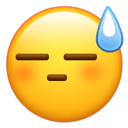
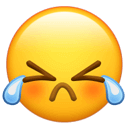
bbs: 新旧表情槽位一一对应（同一编号同一语义）
- 旧版 30 槽语义为准重排 face-wx：呲牙/裂开(受伤)/尴尬/晕/无语/社会社会(墨镜)/
  抠鼻/发呆/色/惊讶/吐/害羞/睡/惊恐/大哭/白眼/让我看看/疑问/翻白眼/咒骂/
  猪头/发怒/强/胜利/炸弹
- 21(黑脸)/24(公鸡)/25-26(企鹅)/27(灯泡) 微信无对应，旧 gif 转 PNG 原样保留
- 修复 [face]30[/face] 被 Math.min(29) 截断成 29 的 bug（ubb 渲染与编辑器同修）

Changed region(s): [[0.0, 0.4062, 1.0, 0.8438], [0.7188, 0.0312, 0.9688, 0.4375]]

diff --git a/src/lib/bbs.ts b/src/lib/bbs.ts
@@ -109,9 +109,10 @@ export function ubb(raw: string): string {
   );
   // 引用
   text = text.replace(/\[quote\]/gi, "<blockquote>").replace(/\[\/quote\]/gi, "</blockquote>");
-  // 表情：[face]N[/face]（N=0-29，白名单数字，经典 QQ 系）与 [face]Nn[/face]（新版=微信原版）
+  // 表情：[face]N[/face]（N=1-30，白名单数字，旧版 QQ 系）与 [face]Nn[/face]（新版=微信原版）
+  // 两套槽位一一对应（2026-09-26 整合：同一编号同一语义，21/24/25/26/27 无微信对应沿用旧图）
   text = text.replace(/\[face\](\d{1,2})(n?)\[\/face\]/gi, (_, n, suffix) => {
-    const id = Math.min(29, parseInt(n, 10));
+    const id = Math.min(30, Math.max(1, parseInt(n, 10)));
     const dir = suffix ? "face-wx" : "face";
     const ext = suffix ? ".png" : ".gif";
     return `<img src="/images/${dir}/${id}${ext}" alt="">`;

diff --git a/src/components/RichEditor.tsx b/src/components/RichEditor.tsx
@@ -45,7 +45,7 @@ export function ubbToEditorHtml(raw: string): string {
   t = t.replace(/\[img\]([^\[\]]+?)\[\/img\]/gi, '<img src="$1">');
   t = t.replace(/\[url\s+([^\[\]\s]+?)\]([^\[\]]*?)\[\/url\]/gi, '<a href="$1">$2</a>');
   t = t.replace(/\[face\](\d{1,2})(n?)\[\/face\]/gi, (_, n: string, sfx: string) => {
-    const id = Math.min(29, parseInt(n, 10));
+    const id = Math.min(30, Math.max(1, parseInt(n, 10)));
     const dir = sfx ? "face-wx" : "face";
     const ext = sfx ? ".png" : ".gif";
     return `<img src="/images/${dir}/${id}${ext}" data-face="${id}${sfx}">`;
